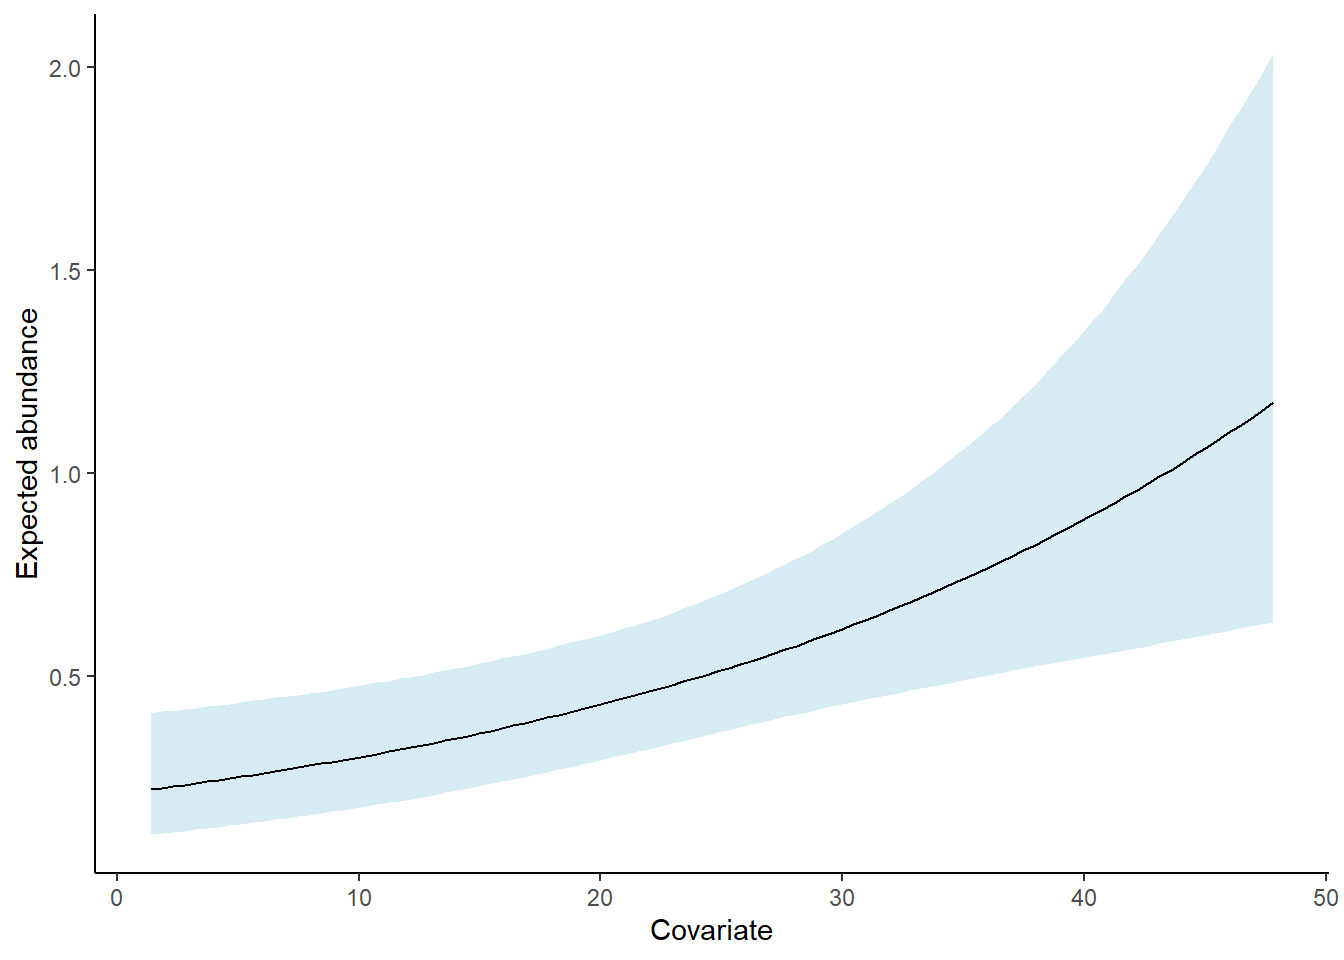
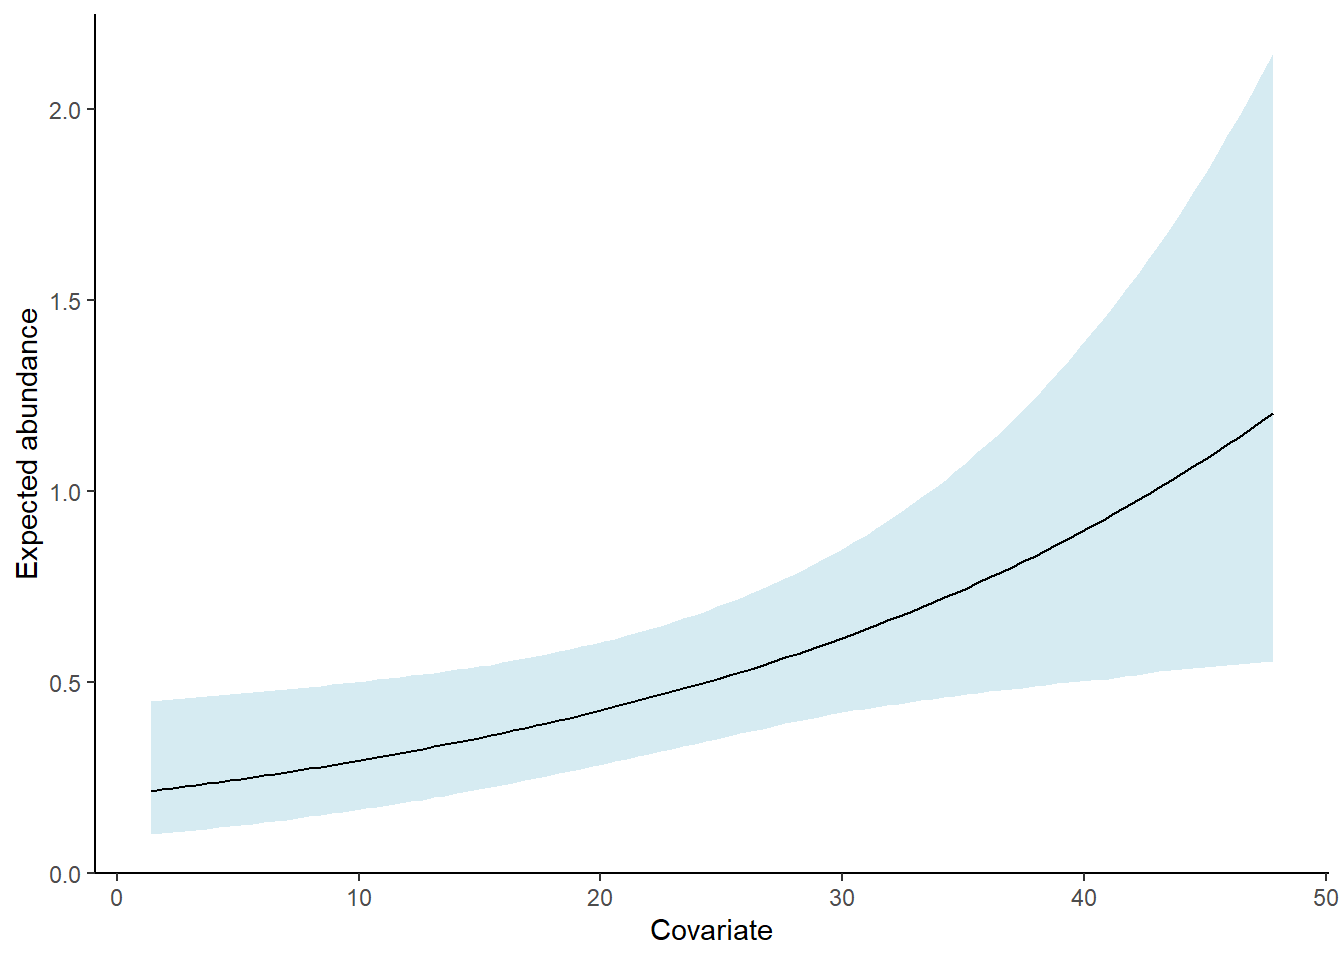
Cuatro

diff --git a/docs/Clase9.html b/docs/Clase9.html
@@ -104,8 +104,8 @@ pre > code.sourceCode > span > a:first-child::before { text-decoration: underlin
 <ul>
 <li>La inferencia bayesiana es atribuida a Thomas Bayes, un clerigo, filosofo y estadistico del siglo XVIII. La estadistica frecuentista fue desarrollada mucho despues, en el siglo XX, por diferentes personas, incluyendo Sir Ronald Fisher y Jerzy Splawa-Neyman.</li>
 </ul>
-<section id="diferemcias-entre-inferencia-bayesiana-y-frecuentista" class="level3">
-<h3 class="anchored" data-anchor-id="diferemcias-entre-inferencia-bayesiana-y-frecuentista">Diferemcias entre inferencia Bayesiana y Frecuentista</h3>
+<section id="diferencias-entre-inferencia-bayesiana-y-frecuentista" class="level3">
+<h3 class="anchored" data-anchor-id="diferencias-entre-inferencia-bayesiana-y-frecuentista">Diferencias entre inferencia Bayesiana y Frecuentista</h3>
 <table class="table">
 <colgroup>
 <col style="width: 47%">
@@ -208,23 +208,23 @@ pre > code.sourceCode > span > a:first-child::before { text-decoration: underlin
 <div class="cell">
 <div class="sourceCode cell-code" id="cb5"><pre class="sourceCode r code-with-copy"><code class="sourceCode r"><span id="cb5-1"><a href="#cb5-1" aria-hidden="true" tabindex="-1"></a><span class="fu">waicAbund</span>(out)</span></code><button title="Copy to Clipboard" class="code-copy-button"><i class="bi"></i></button></pre></div>
 <div class="cell-output cell-output-stdout">
-<pre><code>      elpd         pD       WAIC 
--66.556663   0.942355 134.998037 </code></pre>
+<pre><code>       elpd          pD        WAIC 
+-66.5570782   0.9495005 135.0131574 </code></pre>
 </div>
 <div class="sourceCode cell-code" id="cb7"><pre class="sourceCode r code-with-copy"><code class="sourceCode r"><span id="cb7-1"><a href="#cb7-1" aria-hidden="true" tabindex="-1"></a><span class="fu">waicAbund</span>(out1)</span></code><button title="Copy to Clipboard" class="code-copy-button"><i class="bi"></i></button></pre></div>
 <div class="cell-output cell-output-stdout">
 <pre><code>     elpd        pD      WAIC 
--574.5368 1486.4179 4121.9093 </code></pre>
+-186.1303 1583.0988 3538.4581 </code></pre>
 </div>
 <div class="sourceCode cell-code" id="cb9"><pre class="sourceCode r code-with-copy"><code class="sourceCode r"><span id="cb9-1"><a href="#cb9-1" aria-hidden="true" tabindex="-1"></a><span class="fu">waicAbund</span>(out2)</span></code><button title="Copy to Clipboard" class="code-copy-button"><i class="bi"></i></button></pre></div>
 <div class="cell-output cell-output-stdout">
-<pre><code>     elpd        pD      WAIC 
--64.66940   1.86703 133.07285 </code></pre>
+<pre><code>      elpd         pD       WAIC 
+-64.658918   1.889959 133.097755 </code></pre>
 </div>
 <div class="sourceCode cell-code" id="cb11"><pre class="sourceCode r code-with-copy"><code class="sourceCode r"><span id="cb11-1"><a href="#cb11-1" aria-hidden="true" tabindex="-1"></a><span class="fu">waicAbund</span>(out3)</span></code><button title="Copy to Clipboard" class="code-copy-button"><i class="bi"></i></button></pre></div>
 <div class="cell-output cell-output-stdout">
-<pre><code>     elpd        pD      WAIC 
--61.08681   1.28173 124.73709 </code></pre>
+<pre><code>      elpd         pD       WAIC 
+-61.188238   1.532835 125.442147 </code></pre>
 </div>
 </div>
 <ul>
@@ -248,7 +248,7 @@ Thinning Rate: 1
 Number of Chains: 1
 Total Posterior Samples: 27000
 
-Bayesian p-value:  0.8947 
+Bayesian p-value:  0.8721 
 Fit statistic:  freeman-tukey </code></pre>
 </div>
 </div>
@@ -270,12 +270,12 @@ Burn-in: 3000
 Thinning Rate: 1
 Number of Chains: 1
 Total Posterior Samples: 27000
-Run Time (min): 0.0353
+Run Time (min): 0.0352
 
 Abundance (log scale): 
                Mean     SD    2.5%     50%   97.5% Rhat ESS
-(Intercept) -1.5181 0.3360 -2.2113 -1.5094 -0.8940   NA 226
-AreaBasal    0.0361 0.0117  0.0131  0.0368  0.0587   NA 176</code></pre>
+(Intercept) -1.5369 0.3833 -2.2905 -1.5322 -0.7959   NA 182
+AreaBasal    0.0366 0.0140  0.0071  0.0372  0.0610   NA 148</code></pre>
 </div>
 <div class="sourceCode cell-code" id="cb17"><pre class="sourceCode r code-with-copy"><code class="sourceCode r"><span id="cb17-1"><a href="#cb17-1" aria-hidden="true" tabindex="-1"></a><span class="co"># Abundance regression coefficients</span></span>
 <span id="cb17-2"><a href="#cb17-2" aria-hidden="true" tabindex="-1"></a><span class="fu">plot</span>(out, <span class="at">param =</span> <span class="st">'beta'</span>, <span class="at">density =</span> <span class="cn">FALSE</span>)</span></code><button title="Copy to Clipboard" class="code-copy-button"><i class="bi"></i></button></pre></div>
